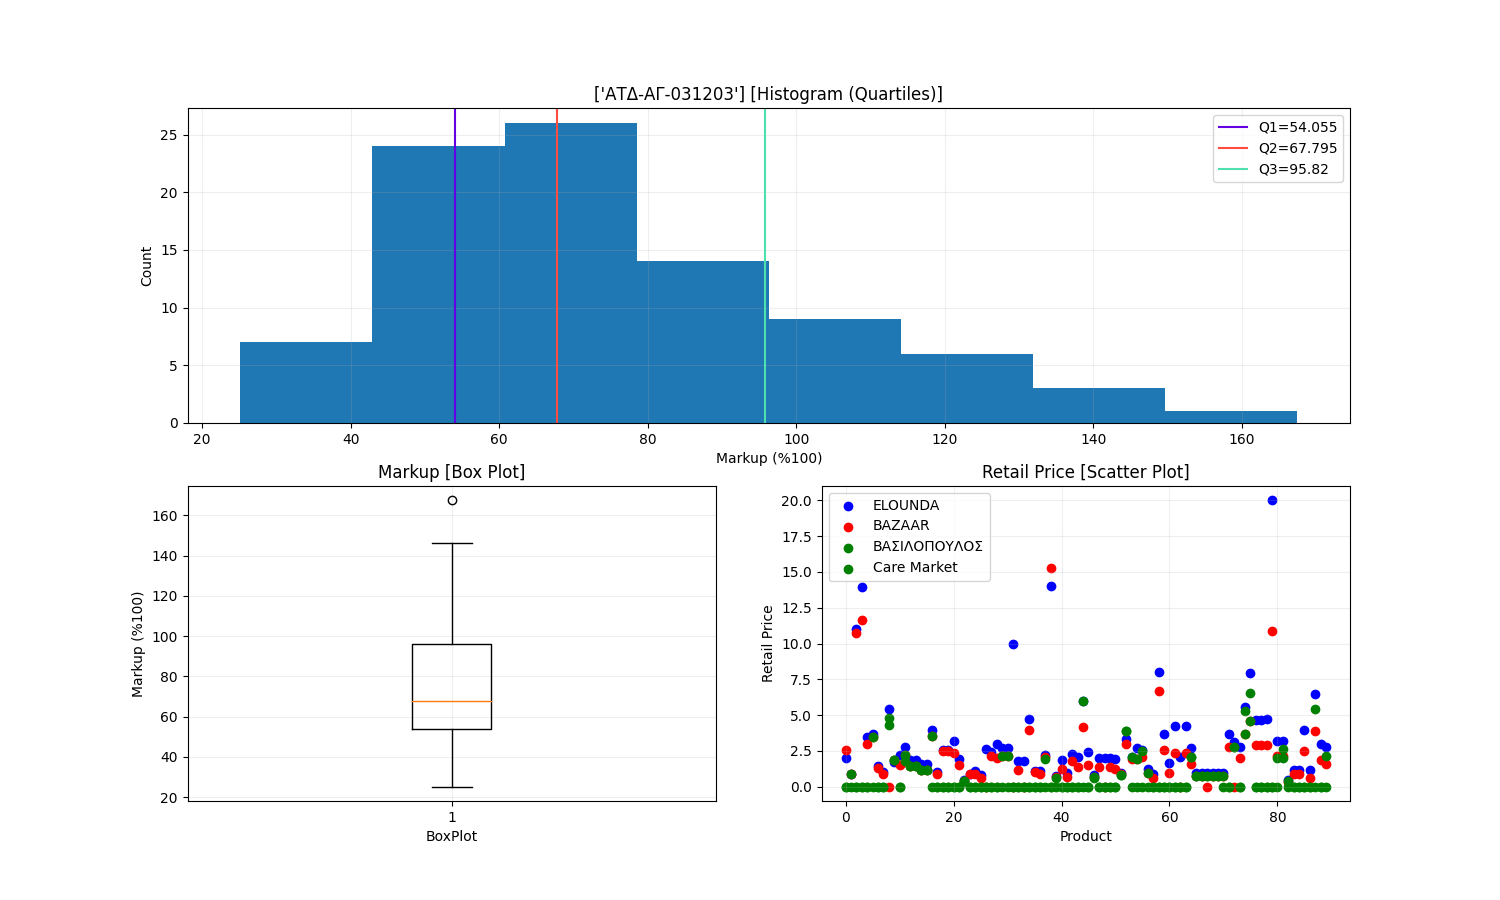
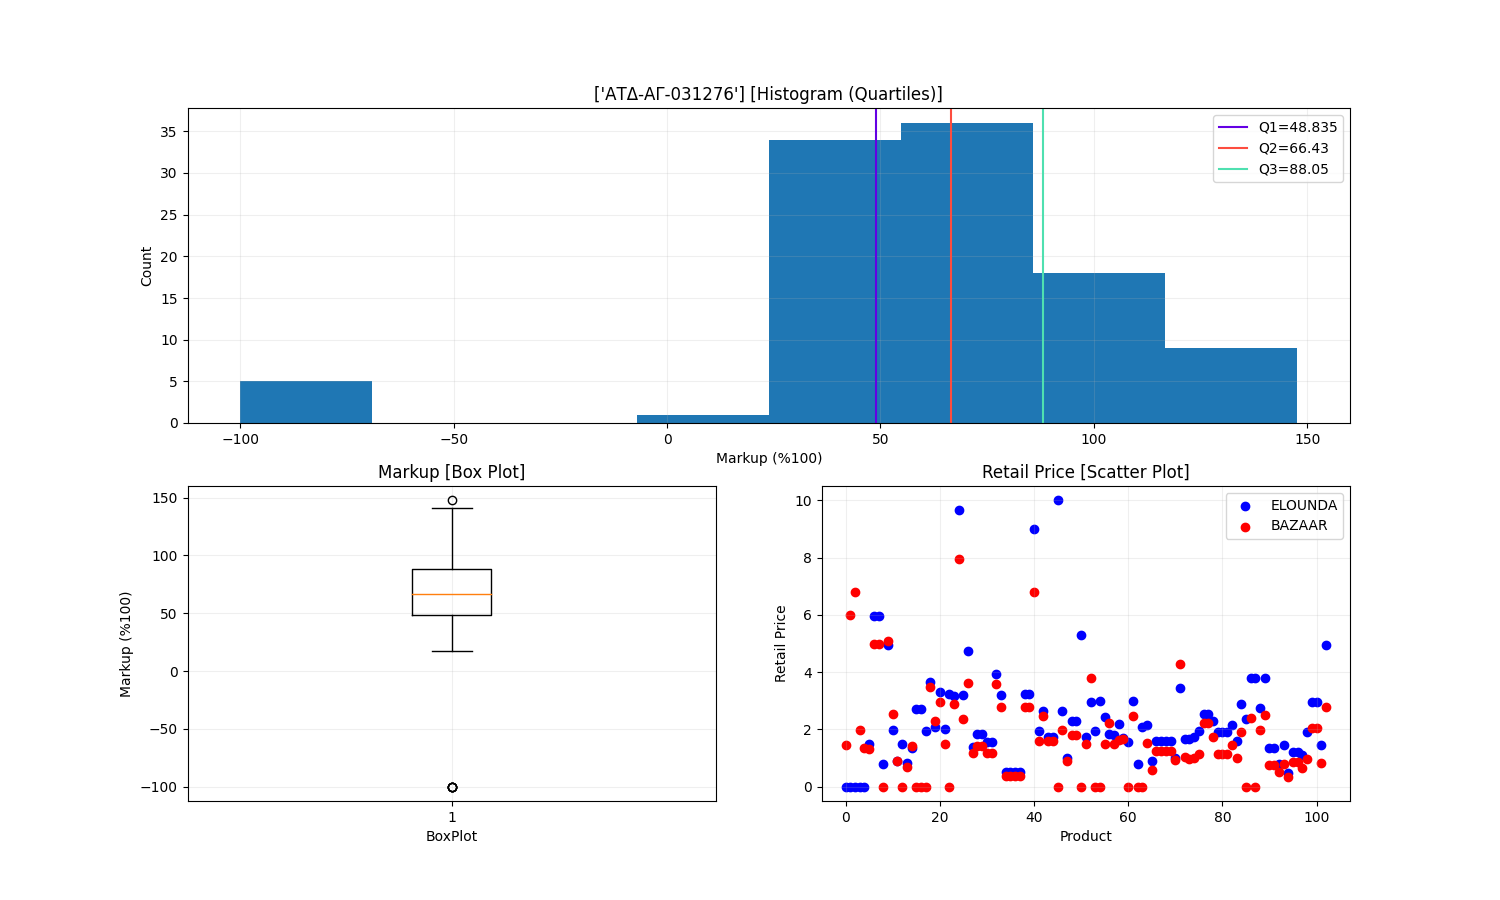
``@Ioannis E. Kommas (PyCharm Commit and Push Code Lines)``

diff --git a/B_WEEKLY_ΕΝΗΜΕΡΩΣΗ_ΕΙΣΑΓΩΓΗΣ_ΠΑΡΑΣΤΑΤΙΚΩΝ/Bazaar.py b/B_WEEKLY_ΕΝΗΜΕΡΩΣΗ_ΕΙΣΑΓΩΓΗΣ_ΠΑΡΑΣΤΑΤΙΚΩΝ/Bazaar.py
@@ -66,8 +66,8 @@ plt.legend()
 plt.subplot(2, 2, 4, xlabel='Product', ylabel='Retail Price', title='Retail Price [Scatter Plot]')
 plt.scatter(range(len(sql_answer)), retail_price, marker='o', color='blue', label='ELOUNDA')
 plt.scatter(range(len(sql_answer)), sql_answer['ΤΙΜΗ BAZAAR'], marker='o', color='red', label='BAZAAR')
-plt.scatter(range(len(sql_answer)), sql_answer['TIMH ΒΑΣΙΛΟΠΟΥΛΟΣ'], marker='o', color='green', label='ΒΑΣΙΛΟΠΟΥΛΟΣ')
-plt.scatter(range(len(sql_answer)), sql_answer['TIMH Care Market'], marker='o', color='black', label='Care Market')
+# plt.scatter(range(len(sql_answer)), sql_answer['TIMH ΒΑΣΙΛΟΠΟΥΛΟΣ'], marker='o', color='green', label='ΒΑΣΙΛΟΠΟΥΛΟΣ')
+# plt.scatter(range(len(sql_answer)), sql_answer['TIMH Care Market'], marker='o', color='black', label='Care Market')
 plt.grid(True, alpha=0.2)
 plt.legend()
 # Next Subplot
